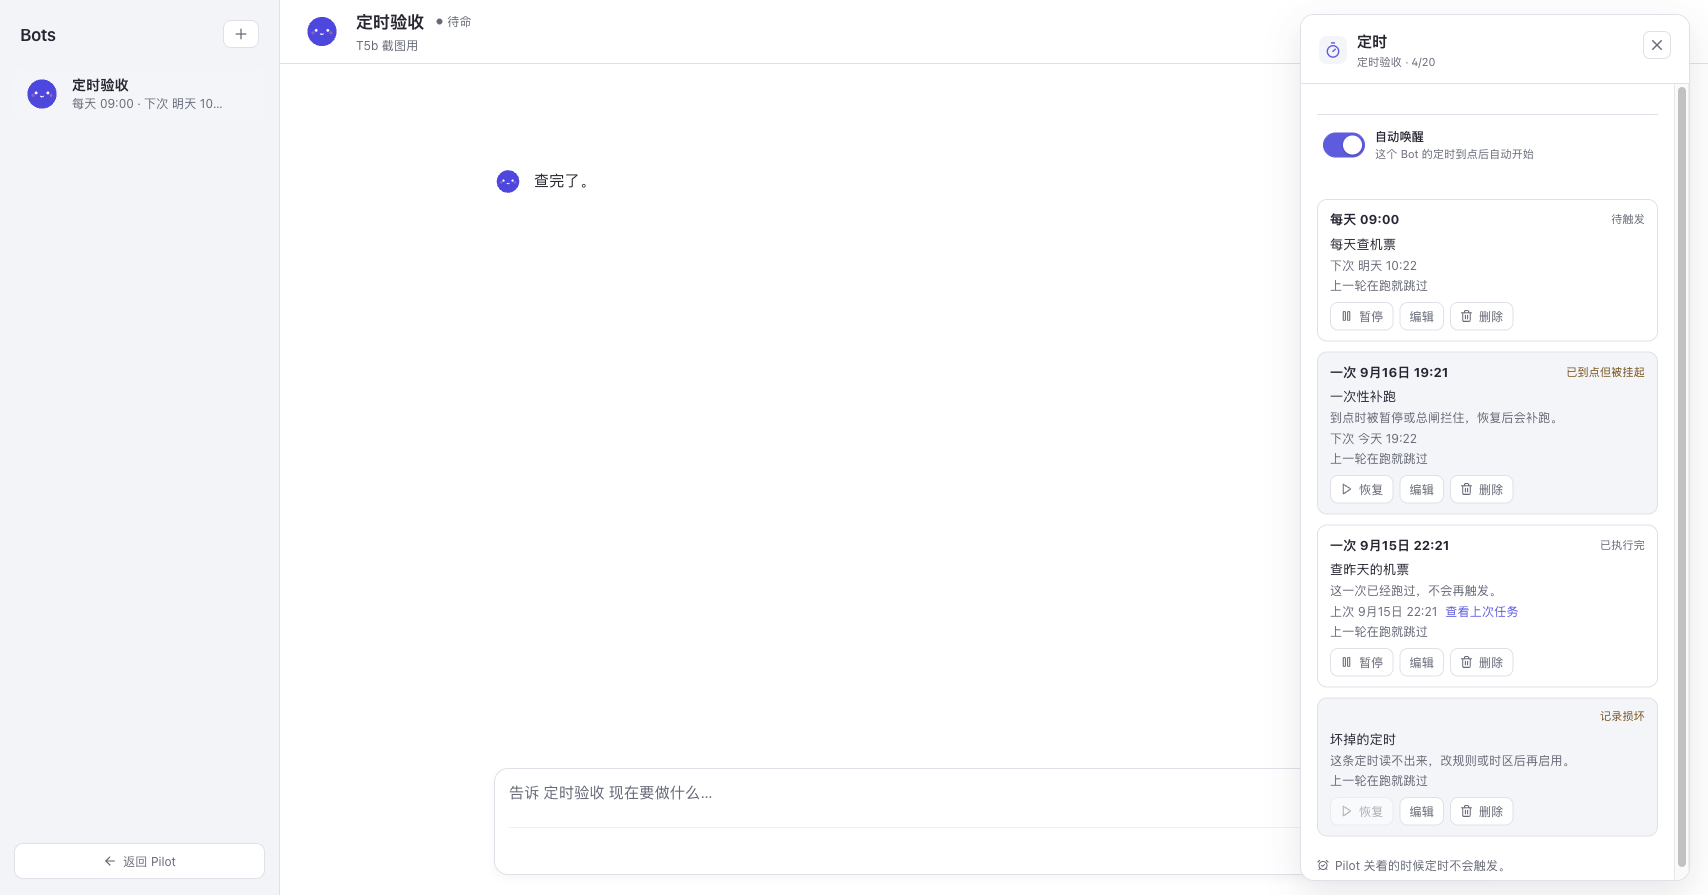
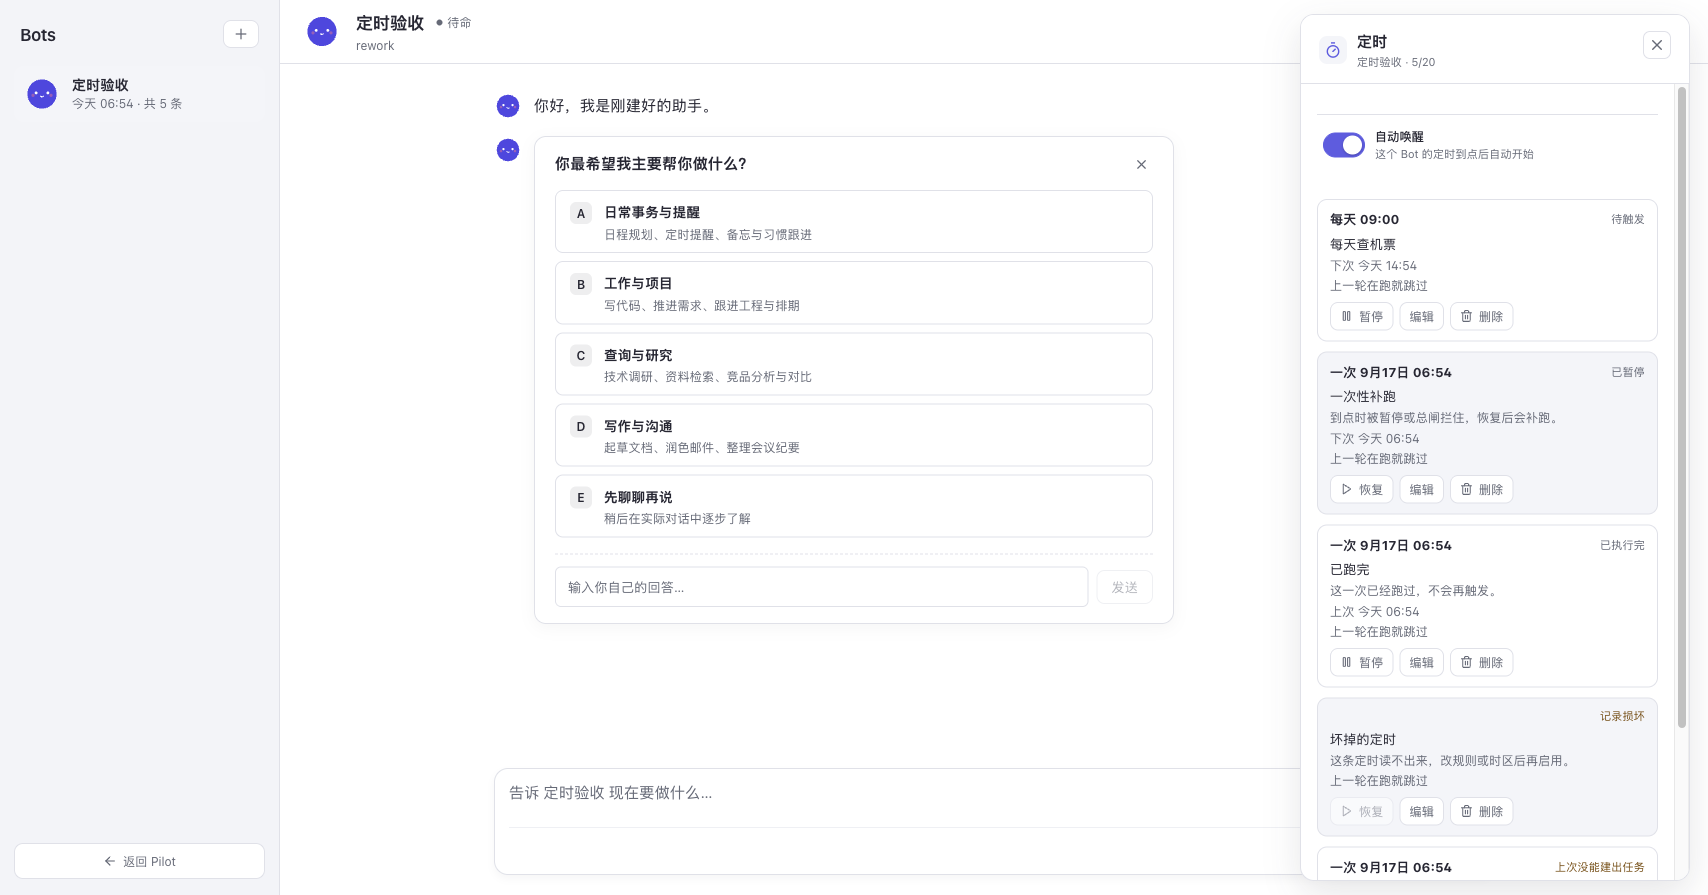
fix(bot): paused schedules read as paused, not upcoming
Repeating rules keep a future nextRunAt while disabled, so the list
must check enabled before upcoming. Invalid rows stay 记录损坏, and a
held skip still promises a catch-up run. Gated rows get their own
chip. Render tests cover the panel; an error-parked once now explains
the late fire.

Agent-Model: grok-4.6
Agent-Family: xai
Agent-Session: 01a0aa7e-8c31-7521-bac3-e4e72febe0f4
Agent-Step: 0.2.0

diff --git a/apps/mms-web/src/bot-schedules.ts b/apps/mms-web/src/bot-schedules.ts
@@ -56,6 +56,7 @@ export type ScheduleRunKind =
   | "invalid"
   | "error"
   | "disabled"
+  | "gated"
   | "unknown";
 
 export interface ScheduleRunState {
@@ -227,9 +228,16 @@ export function describeComposerChip(form: ComposerScheduleForm): string {
   }
 }
 
+function holdDetail(reason: string | undefined): string {
+  return reason === "busy"
+    ? "到点时上一轮还在跑，恢复后会补跑。"
+    : "到点时被暂停或总闸拦住，恢复后会补跑。";
+}
+
 export function scheduleRunState(
   schedule: BotSchedule,
   now: Date = new Date(),
+  options: { wakeEnabled?: boolean } = {},
 ): ScheduleRunState {
   const skip = schedule.lastSkip;
   const next = schedule.nextRunAt;
@@ -237,6 +245,7 @@ export function scheduleRunState(
   const hasNext = Number.isFinite(nextMs);
   const past = hasNext && nextMs <= now.getTime();
   const future = hasNext && nextMs > now.getTime();
+  const holdSkip = skip?.reason === "paused" || skip?.reason === "busy";
 
   if (next == null && schedule.enabled === false && skip?.reason === "invalid") {
     return {
@@ -252,20 +261,28 @@ export function scheduleRunState(
       detail: "这一次已经跑过，不会再触发。",
     };
   }
-  if (
-    past &&
-    (skip?.reason === "paused" || skip?.reason === "busy") &&
-    schedule.lastRunAt == null
-  ) {
-    const holdReason = skip.reason as "paused" | "busy";
+  // Repeating rules keep a future nextRunAt while paused. That must not read as 待触发.
+  if (!schedule.enabled) {
+    if (holdSkip && schedule.lastRunAt == null) {
+      return {
+        kind: "disabled",
+        holdReason: skip?.reason as "paused" | "busy",
+        label: "已暂停",
+        detail: holdDetail(skip?.reason),
+      };
+    }
+    return {
+      kind: "disabled",
+      label: "已暂停",
+      detail: "这条定时不会触发；恢复后按下次时间跑。",
+    };
+  }
+  if (past && holdSkip && schedule.lastRunAt == null) {
     return {
       kind: "held",
-      holdReason,
+      holdReason: skip?.reason as "paused" | "busy",
       label: "已到点但被挂起",
-      detail:
-        holdReason === "paused"
-          ? "到点时被暂停或总闸拦住，恢复后会补跑。"
-          : "到点时上一轮还在跑，恢复后会补跑。",
+      detail: holdDetail(skip?.reason),
     };
   }
   if (skip?.reason === "error") {
@@ -275,15 +292,15 @@ export function scheduleRunState(
       detail: "到点会再试，不是已经执行完。",
     };
   }
+  if (options.wakeEnabled === false) {
+    return {
+      kind: "gated",
+      label: "被总闸拦住",
+      detail: "被自动唤醒总闸拦住",
+    };
+  }
   if (future) {
     return { kind: "upcoming", label: "待触发", detail: "" };
-  }
-  if (!schedule.enabled) {
-    return {
-      kind: "disabled",
-      label: "已暂停",
-      detail: "这条定时不会触发；恢复后按下次时间跑。",
-    };
   }
   if (past) {
     return {

diff --git a/apps/mms-web/src/BotSchedulePanel.tsx b/apps/mms-web/src/BotSchedulePanel.tsx
@@ -44,7 +44,7 @@ interface BotSchedulePanelProps {
   wakeControl?: ReactNode;
 }
 
-function scheduleEnablePath(botId: string, scheduleId: string, enabled: boolean): string {
+export function scheduleEnablePath(botId: string, scheduleId: string, enabled: boolean): string {
   const action = enabled ? "enable" : "disable";
   return `/bots/${encodeURIComponent(botId)}/schedules/${encodeURIComponent(scheduleId)}/${action}`;
 }
@@ -291,7 +291,7 @@ export function BotSchedulePanel({
         ) : (
           <ul className="bot-schedule-list">
             {schedules.map((schedule) => {
-              const state = scheduleRunState(schedule);
+              const state = scheduleRunState(schedule, new Date(), { wakeEnabled: bot.wakeEnabled });
               const missed = skipNote(schedule);
               const lastTask = tasks.find((item) => item.id === schedule.lastTaskId);
               const editing = editingId === schedule.id;
@@ -309,11 +309,7 @@ export function BotSchedulePanel({
                   <p className="bot-schedule-prompt" title={schedule.prompt}>
                     {schedule.prompt}
                   </p>
-                  {gated ? (
-                    <p className="bot-schedule-meta">被自动唤醒总闸拦住</p>
-                  ) : (
-                    <p className="bot-schedule-meta">{state.detail}</p>
-                  )}
+                  {state.detail && <p className="bot-schedule-meta">{state.detail}</p>}
                   {schedule.nextRunAt && state.kind !== "completed" && state.kind !== "invalid" && (
                     <p className="bot-schedule-meta">
                       下次 {formatScheduledTaskTime(schedule.nextRunAt)}

diff --git a/apps/mms-web/src/bot.css b/apps/mms-web/src/bot.css
@@ -3409,6 +3409,11 @@
   color: var(--bot-amber);
 }
 
+.bot-schedule-state.is-disabled,
+.bot-schedule-state.is-gated {
+  color: var(--muted);
+}
+
 .bot-schedule-state.is-completed {
   color: var(--muted);
 }

diff --git a/mms_web/bots.py b/mms_web/bots.py
@@ -1622,13 +1622,22 @@ class BotRuntime(BotCommunications):
                     fired, reason = None, "创建任务失败"
                 if fired:
                     self._tasks[fired["id"]]["scheduleId"] = updated["id"]
-                    if schedule["rule"]["kind"] == "once" and (schedule.get("lastSkip") or {}).get("reason") in {"paused", "busy"}:
-                        self._message(fired["id"], "system", f"这条定时原定 {format_local(due_at, updated['timezone'])} 触发，因暂停或上一轮未结束而延后，现在补触发。")
+                    skip_reason = (schedule.get("lastSkip") or {}).get("reason")
+                    if schedule["rule"]["kind"] == "once" and skip_reason in {"paused", "busy", "error"}:
+                        when = format_local(due_at, updated["timezone"])
+                        if skip_reason == "error":
+                            note = f"这条定时原定 {when} 触发，当时没能建出任务，现在补触发。"
+                        else:
+                            note = f"这条定时原定 {when} 触发，因暂停或上一轮未结束而延后，现在补触发。"
+                        self._message(fired["id"], "system", note)
                     updated.update(lastRunAt=now(), lastTaskId=fired["id"], lastSkip=None,
                                    recentTaskIds=(updated.get("recentTaskIds") or [])[-(RECENT_TASK_LIMIT - 1):] + [fired["id"]])
                 elif reason and schedule["rule"]["kind"] == "once" and updated.get("nextRunAt") is None:
                     # create_task failed before anything ran: give the one-shot
                     # its only chance back instead of consuming it.
+                    # reason="error" is only valid here because advance() never
+                    # skips a once (skipped is always 0 for kind once). If that
+                    # changes, this label would lie.
                     updated["nextRunAt"] = due_at
                     parked = defer_once(updated, stamp=now(), reason="error")
                     if parked is None:

diff --git a/tests/test_mms_web_bots.py b/tests/test_mms_web_bots.py
@@ -990,3 +990,24 @@ def test_a_failed_create_does_not_consume_a_once_schedule(tmp_path):
         assert rt._schedules[once["id"]]["nextRunAt"] is None
     finally:
         rt.close()
+
+
+def test_an_error_parked_once_explains_the_late_run(tmp_path):
+    executor = FlakyValidateExecutor()
+    rt = runtime(tmp_path, executor)
+    try:
+        worker = bot(rt, "补触发说明", "ws-once-error-note")
+        past = (datetime.now(timezone.utc) - timedelta(seconds=1)).isoformat()
+        once = rt.create_schedule(worker["id"], {"prompt": "一次提醒", "rule": {"kind": "once", "at": past}})
+        executor.broken = True
+        rt.tick(); drain_launch(rt)
+        assert rt._schedules[once["id"]]["lastSkip"]["reason"] == "error"
+        executor.broken = False
+        rt.tick(); drain_launch(rt)
+        fired = rt.list_tasks(bot_id=worker["id"])
+        assert len(fired) == 1
+        notes = [message["content"] for message in rt.list_messages(fired[0]["id"])]
+        assert any("没能建出任务" in content and "现在补触发" in content for content in notes)
+        assert not any("因暂停" in content for content in notes)
+    finally:
+        rt.close()
